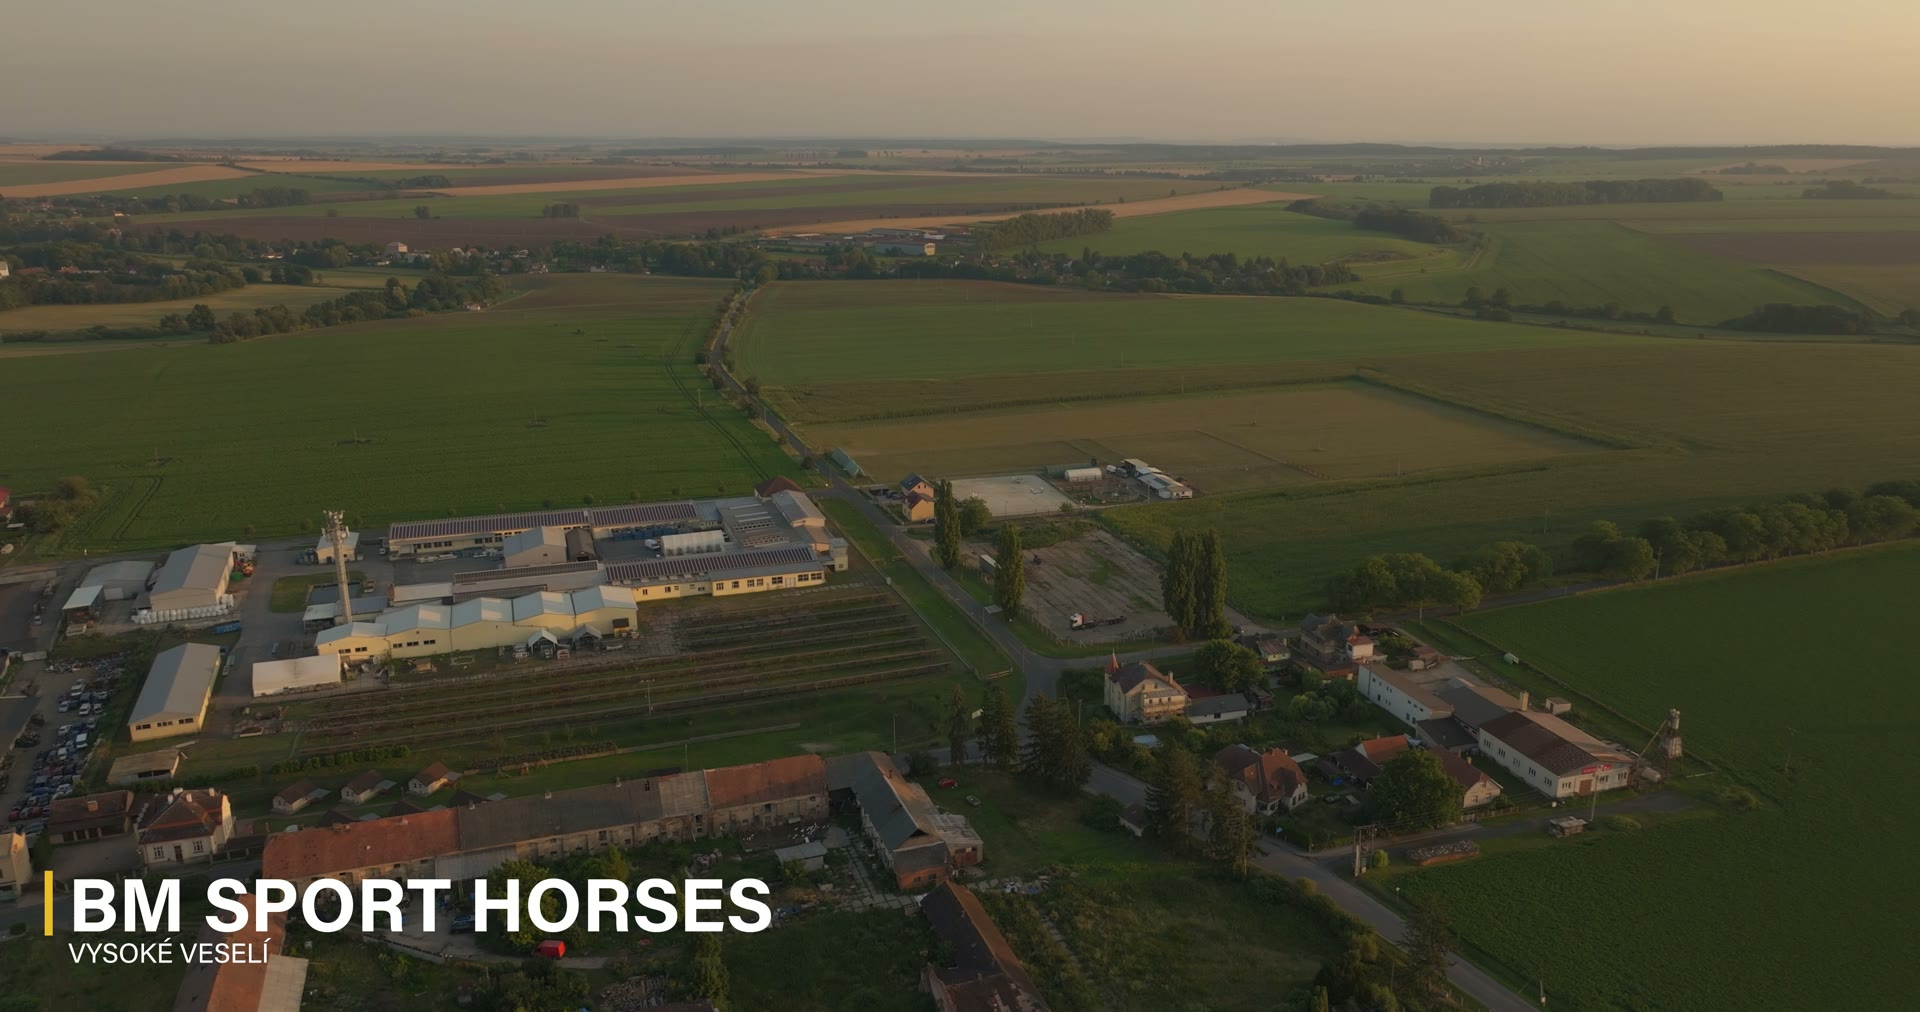
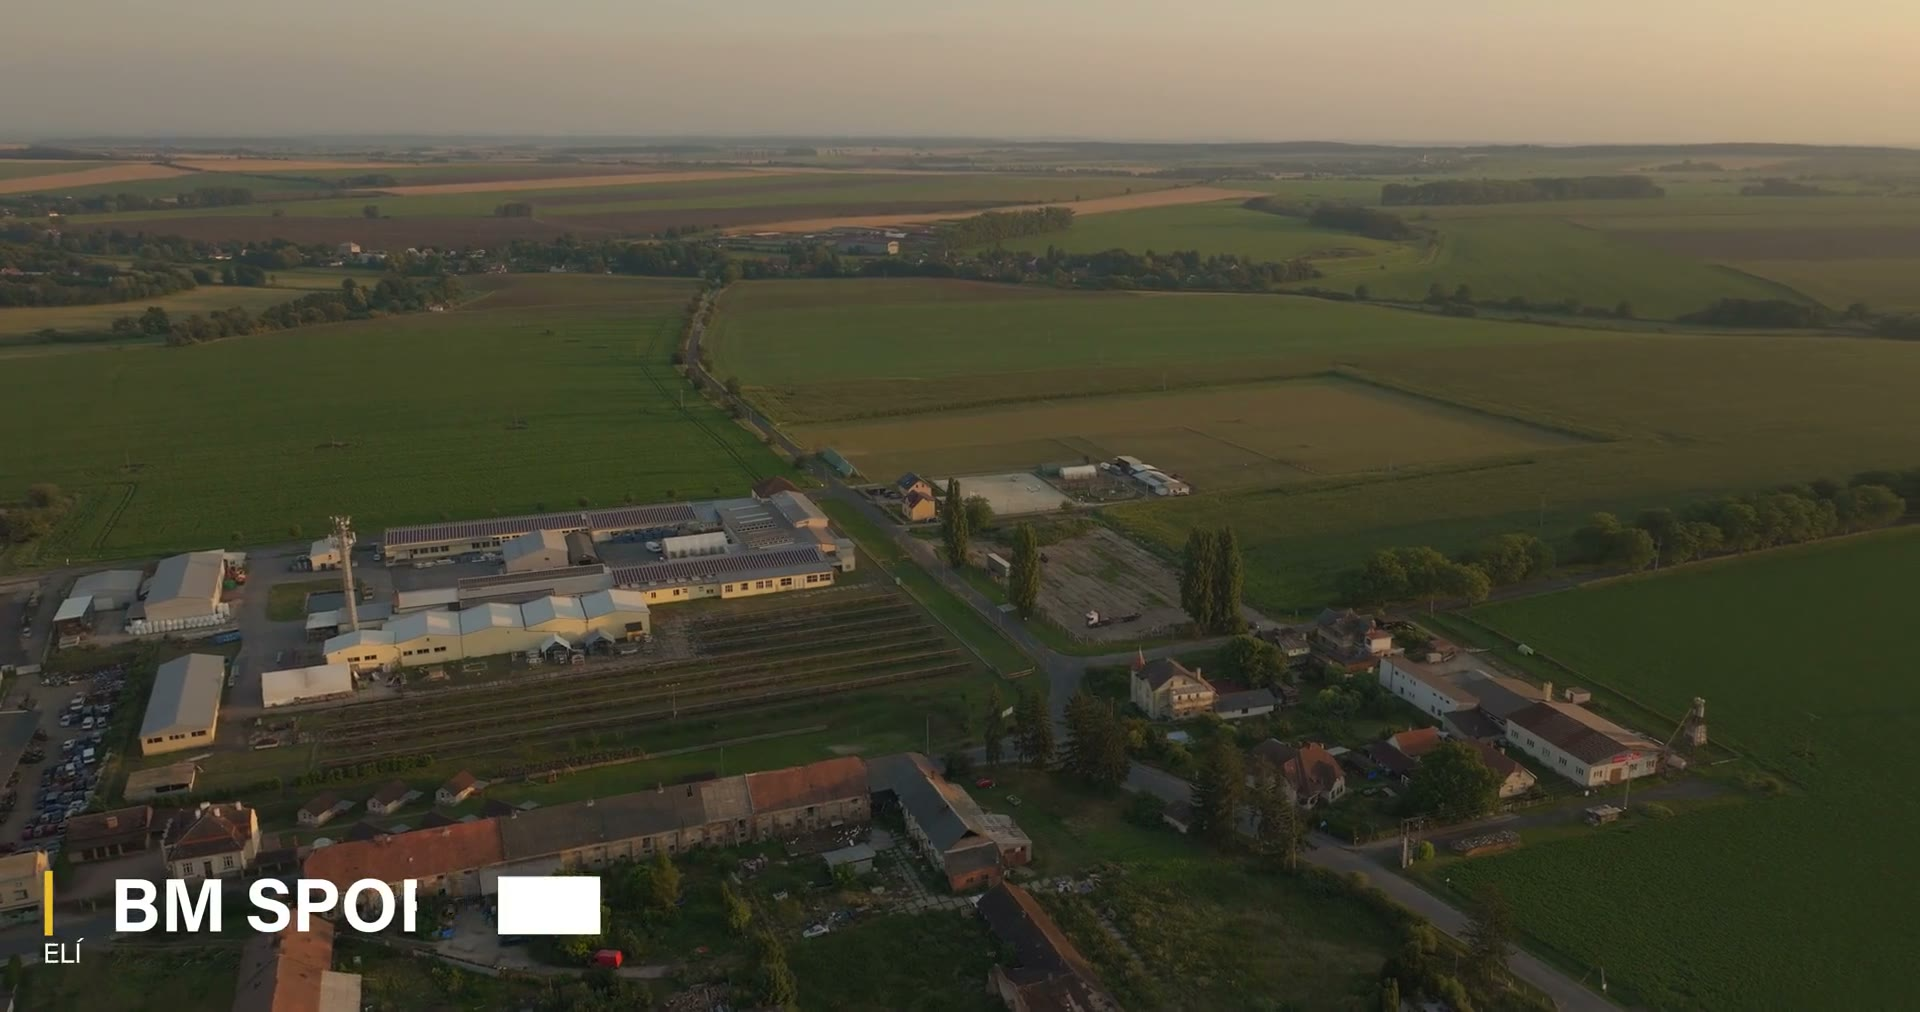
Hero + section 01 polish: looping video, richer left column
- Hero: remove "Pronájem celého areálu" label
- Video: trim 4s off each end (88s→80s), drop audio; autoplay muted
  loop with no play button; rounded-2xl corners; subtle pill label
- Section 01 left column: lead paragraph + hairline feature list +
  "Prohlédnout vybavení →" link, vertically centered against the video

diff --git a/components/VideoFrame.tsx b/components/VideoFrame.tsx
@@ -1,51 +1,22 @@
-"use client";
-
-import { useRef, useState } from "react";
-
 export default function VideoFrame() {
-  const videoRef = useRef<HTMLVideoElement>(null);
-  const [playing, setPlaying] = useState(false);
-
-  function play() {
-    const v = videoRef.current;
-    if (!v) return;
-    v.play();
-    setPlaying(true);
-  }
-
   return (
-    <div className="relative aspect-video w-full overflow-hidden bg-navy-900 ring-1 ring-navy-100">
+    <div className="relative aspect-video w-full overflow-hidden rounded-2xl bg-navy-900 ring-1 ring-navy-100">
       <video
-        ref={videoRef}
         className="h-full w-full object-cover"
         poster="/video/poster.jpg"
-        controls={playing}
-        preload="none"
+        autoPlay
+        muted
+        loop
         playsInline
-        onPause={() => setPlaying(false)}
-        onPlay={() => setPlaying(true)}
+        preload="metadata"
       >
         <source src="/video/areal-1080p.mp4" type="video/mp4" />
         Váš prohlížeč nepodporuje přehrávání videa.
       </video>
 
-      {!playing && (
-        <button
-          type="button"
-          onClick={play}
-          aria-label="Přehrát video areálu"
-          className="group absolute inset-0 flex items-center justify-center bg-navy-900/25 transition-colors duration-300 hover:bg-navy-900/10"
-        >
-          <span className="absolute left-4 top-4 text-[0.62rem] font-semibold uppercase tracking-[0.2em] text-white/90">
-            Video — prohlídka z výšky
-          </span>
-          <span className="flex h-16 w-16 items-center justify-center rounded-full bg-white text-navy-900 shadow-xl transition-transform duration-300 group-hover:scale-105">
-            <svg width="22" height="26" viewBox="0 0 28 32" fill="currentColor" className="ml-1">
-              <path d="M0 2.5C0 0.96 1.66 0 3 0.77l22 12.73c1.33 0.77 1.33 2.69 0 3.46L3 31.23C1.66 32 0 31.04 0 29.5V2.5z" />
-            </svg>
-          </span>
-        </button>
-      )}
+      <span className="pointer-events-none absolute left-4 top-4 rounded-full bg-navy-900/45 px-3 py-1.5 text-[0.62rem] font-semibold uppercase tracking-[0.2em] text-white/90 backdrop-blur-sm">
+        Prohlídka z výšky
+      </span>
     </div>
   );
 }

diff --git a/components/Intro.tsx b/components/Intro.tsx
@@ -36,14 +36,38 @@ export default function Intro() {
           </h2>
         </Reveal>
 
-        <div className="mt-14 grid grid-cols-1 gap-10 lg:grid-cols-12 lg:gap-16">
-          <Reveal className="flex flex-col justify-end lg:col-span-5">
-            <p className="text-lg leading-relaxed text-ink/70">
+        <div className="mt-14 grid grid-cols-1 items-center gap-10 lg:grid-cols-12 lg:gap-16">
+          <Reveal className="flex flex-col gap-8 lg:col-span-5">
+            <p className="text-xl leading-relaxed text-ink/75">
               Jezdecký areál ve Vysokém Veselí nabízí kompletní podmínky pro
-              ustájení koní i pohodlí jejich majitelů. Stáje, jízdárna, výběhy,
-              seník i samostatné ubytování — vše na jednom místě a připravené k
-              tomu, aby si sem nový provozovatel mohl rovnou nastěhovat koně.
+              ustájení koní i pohodlí jejich majitelů — vše na jednom místě
+              a&nbsp;připravené k převzetí.
             </p>
+            <ul className="border-t border-navy-100">
+              {[
+                "Stáje a stájové boxy",
+                "Venkovní jízdárna a výběhy",
+                "Seník, slamník a zázemí",
+                "Samostatné ubytování na místě",
+              ].map((item) => (
+                <li
+                  key={item}
+                  className="flex items-center gap-4 border-b border-navy-100 py-3.5 text-[0.95rem] font-medium text-navy-900"
+                >
+                  <span className="h-1.5 w-1.5 shrink-0 bg-navy-400" />
+                  {item}
+                </li>
+              ))}
+            </ul>
+            <a
+              href="#vybaveni"
+              className="group inline-flex items-center gap-2 text-[0.8rem] font-semibold uppercase tracking-[0.16em] text-navy-900"
+            >
+              Prohlédnout vybavení
+              <span className="transition-transform duration-300 group-hover:translate-x-1">
+                →
+              </span>
+            </a>
           </Reveal>
           <Reveal delay={120} className="lg:col-span-7">
             <VideoFrame />

diff --git a/components/Hero.tsx b/components/Hero.tsx
@@ -24,9 +24,7 @@ export default function Hero() {
       {/* Obsah */}
       <div className="relative z-10 mx-auto flex h-full max-w-7xl flex-col px-6 lg:px-12">
         {/* Horní meta lišta */}
-        <div className="flex items-center justify-end pt-28 text-[0.68rem] uppercase tracking-[0.24em] text-white/70 lg:pt-32">
-          <span className="hidden sm:block">Pronájem celého areálu</span>
-        </div>
+        <div className="pt-28 lg:pt-32" />
 
         {/* Hlavní nadpis – vertikálně na střed */}
         <div className="my-auto text-center">